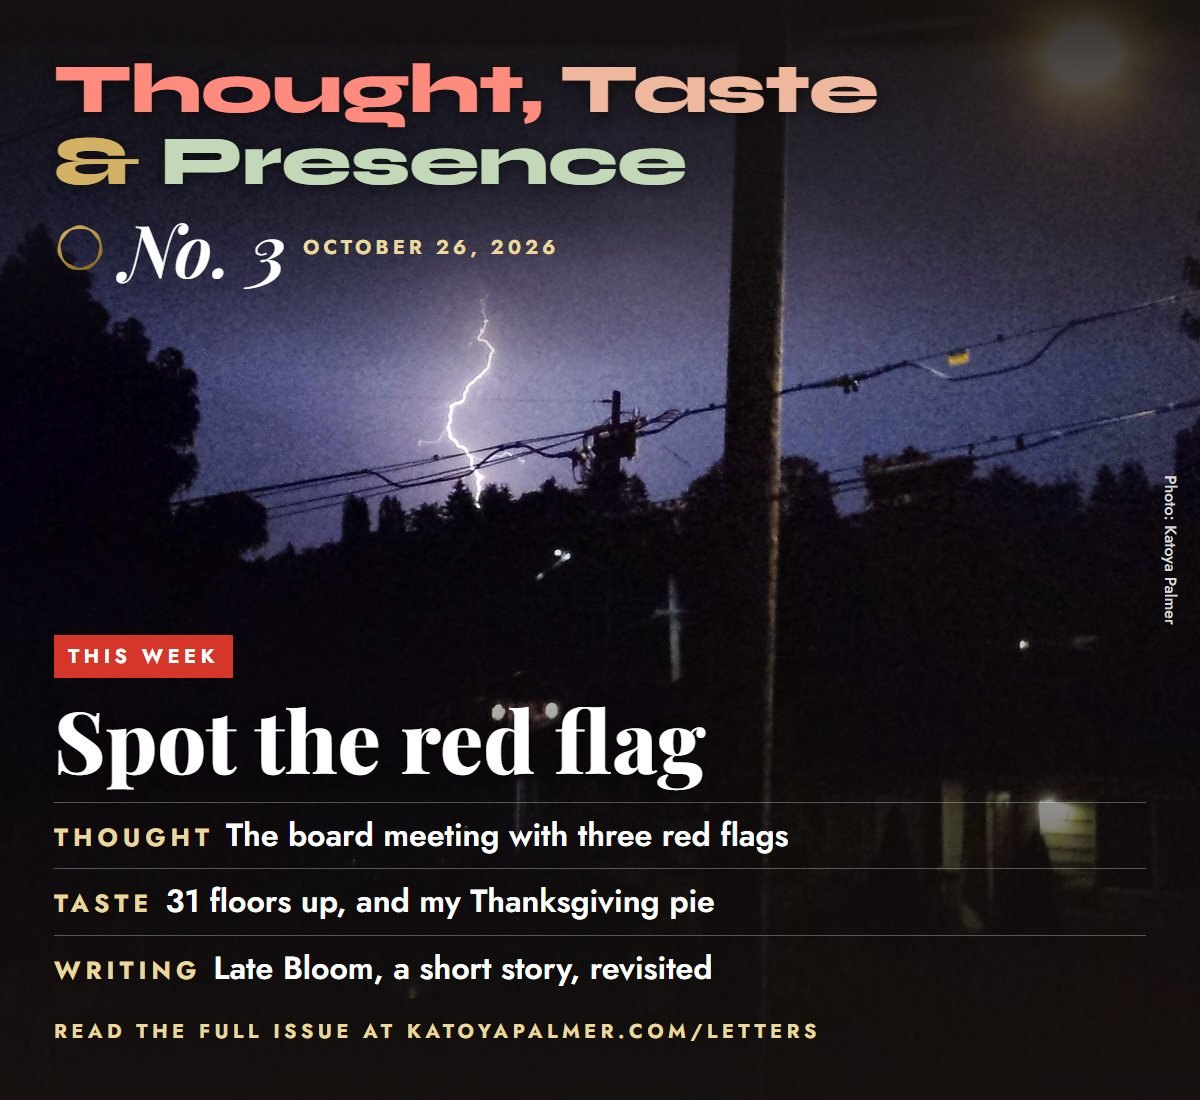
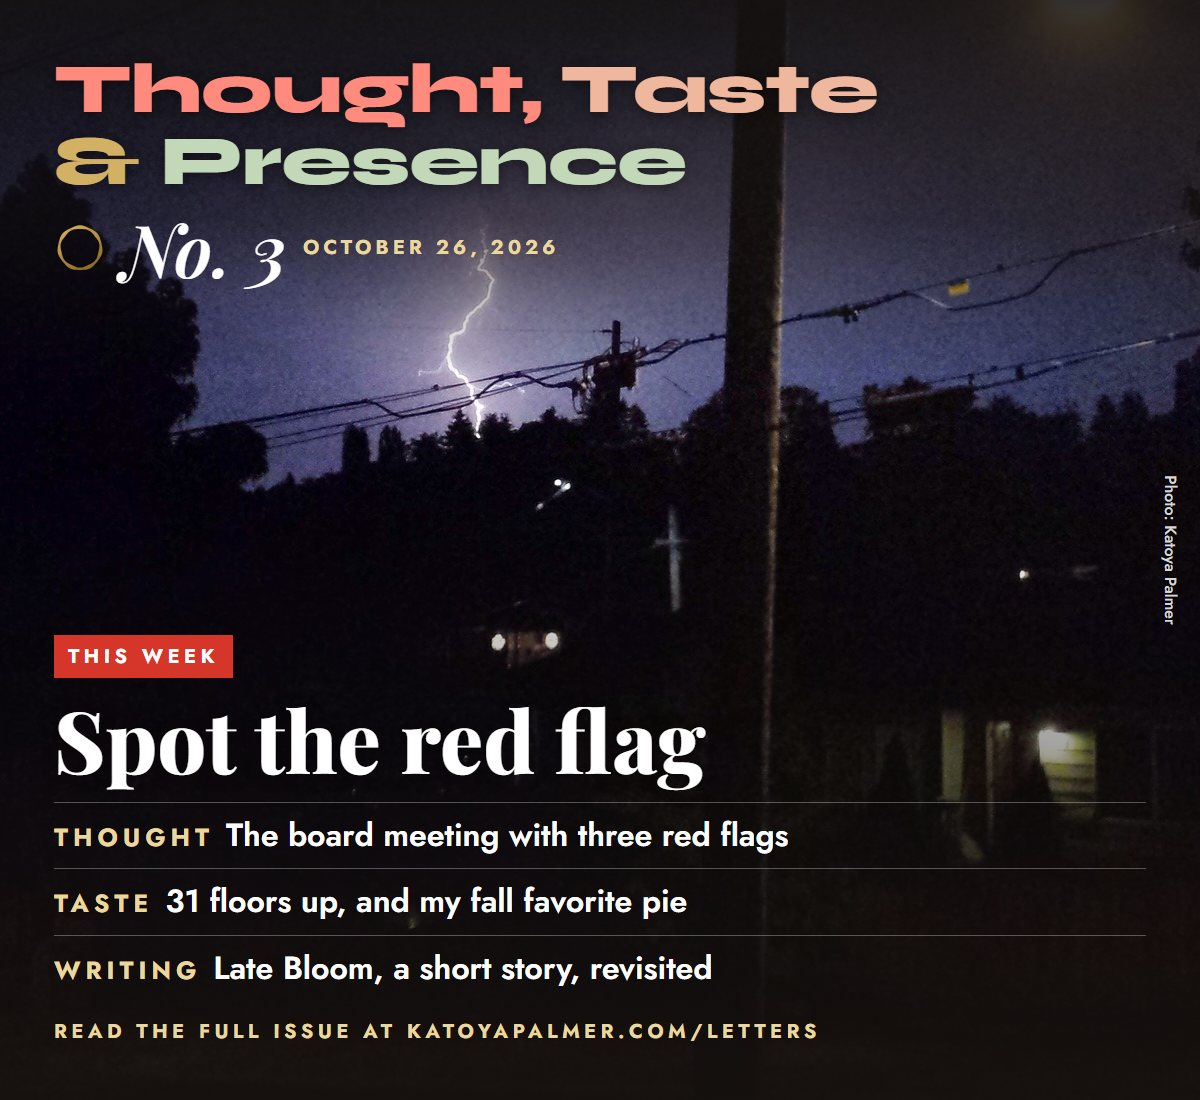
Issue 3: 'fall favorite' pie (Katoya), new email cover + share card

diff --git a/letters/2026-10-26-issue-03.html b/letters/2026-10-26-issue-03.html
@@ -7,27 +7,27 @@
 <meta name="referrer" content="strict-origin-when-cross-origin">
 <meta name="viewport" content="width=device-width, initial-scale=1.0" />
 <title>Issue 3: Spot the red flag | Thought, Taste &amp; Presence</title>
-<meta name="description" content="Issue 3 of Katoya Palmer's weekly letter: the board meeting with three red flags, Late Bloom revisited, my Thanksgiving pie, 31 floors up, and a horror movie season dump." />
+<meta name="description" content="Issue 3 of Katoya Palmer's weekly letter: the board meeting with three red flags, Late Bloom revisited, my fall favorite pie, 31 floors up, and a horror movie season dump." />
 <meta name="author" content="Katoya Raquell Palmer" />
 <link rel="canonical" href="https://www.katoyapalmer.com/letters/2026-10-26-issue-03.html" />
 <link rel="icon" type="image/svg+xml" href="/assets/favicon.svg" />
 <meta property="og:type" content="article" />
 <meta property="og:site_name" content="Katoya Palmer" />
 <meta property="og:title" content="Spot the red flag | Thought, Taste &amp; Presence, Issue 3" />
-<meta property="og:description" content="The board meeting with three red flags, Late Bloom revisited, my Thanksgiving pie, 31 floors up, and a horror movie season dump." />
+<meta property="og:description" content="The board meeting with three red flags, Late Bloom revisited, my fall favorite pie, 31 floors up, and a horror movie season dump." />
 <meta property="og:image" content="https://www.katoyapalmer.com/media/letters/issue-03/share_1200x630.jpg" />
 <meta property="og:image:width" content="1200" />
 <meta property="og:image:height" content="630" />
 <meta property="og:image:type" content="image/jpeg" />
-<meta property="og:image:alt" content="Thought, Taste and Presence, No. 3, October 26, 2026: lightning over power lines at night. Spot the red flag. Writing: Late Bloom, revisited. Taste: 31 floors up, and my Thanksgiving pie." />
+<meta property="og:image:alt" content="Thought, Taste and Presence, No. 3, October 26, 2026: lightning over power lines at night. Spot the red flag. Writing: Late Bloom, revisited. Taste: 31 floors up, and my fall favorite pie." />
 <meta property="article:published_time" content="2026-10-26T07:00:00-07:00" />
 <meta property="article:author" content="Katoya Palmer" />
 <meta property="og:url" content="https://www.katoyapalmer.com/letters/2026-10-26-issue-03.html" />
 <meta name="twitter:card" content="summary_large_image" />
 <meta name="twitter:title" content="Spot the red flag | Thought, Taste &amp; Presence, Issue 3" />
-<meta name="twitter:description" content="The board meeting with three red flags, Late Bloom revisited, my Thanksgiving pie, 31 floors up, and a horror movie season dump." />
+<meta name="twitter:description" content="The board meeting with three red flags, Late Bloom revisited, my fall favorite pie, 31 floors up, and a horror movie season dump." />
 <meta name="twitter:image" content="https://www.katoyapalmer.com/media/letters/issue-03/share_1200x630.jpg" />
-<meta name="twitter:image:alt" content="Thought, Taste and Presence, No. 3, October 26, 2026: lightning over power lines at night. Spot the red flag. Writing: Late Bloom, revisited. Taste: 31 floors up, and my Thanksgiving pie." />
+<meta name="twitter:image:alt" content="Thought, Taste and Presence, No. 3, October 26, 2026: lightning over power lines at night. Spot the red flag. Writing: Late Bloom, revisited. Taste: 31 floors up, and my fall favorite pie." />
 <link rel="preconnect" href="https://fonts.googleapis.com" />
 <link rel="preconnect" href="https://fonts.gstatic.com" crossorigin />
 <link href="https://fonts.googleapis.com/css2?family=Syne:wght@600;700;800&family=Space+Grotesk:wght@400;500;600;700&family=Jost:wght@400;500;600;700&family=Italianno&family=Playfair+Display:ital,wght@0,600;0,800;1,500;1,600&family=Newsreader:ital,opsz,wght@0,6..72,400;0,6..72,600;1,6..72,400&display=swap" rel="stylesheet" />
@@ -38,7 +38,7 @@
 <link rel="stylesheet" href="/assets/kp-music.css" />
 <script src="/assets/kp-music.js" defer></script>
 <script type="application/ld+json">
-{"@context":"https://schema.org","@type":"BlogPosting","headline":"Issue 3: Spot the red flag","description":"Issue 3 of Katoya Palmer's weekly letter: the board meeting with three red flags, Late Bloom revisited, my Thanksgiving pie, 31 floors up, and a horror movie season dump.","datePublished":"2026-10-26","dateModified":"2026-10-26","author":{"@type":"Person","@id":"https://www.katoyapalmer.com/#person","name":"Katoya Raquell Palmer","alternateName":"Katoya Palmer","url":"https://www.katoyapalmer.com/","sameAs":["https://katoyapalmer.substack.com","https://www.tiktok.com/@katoyapalmer","https://www.instagram.com/katoyapalmer/","https://www.facebook.com/katoyapalmer","https://www.linkedin.com/in/katoya318/","https://podcasts.apple.com/us/podcast/in-real-time-with-katoya-palmer/id1852388336"]},"publisher":{"@id":"https://www.katoyapalmer.com/#person"},"image":"https://www.katoyapalmer.com/media/letters/issue-03/share_1200x630.jpg","url":"https://www.katoyapalmer.com/letters/2026-10-26-issue-03.html","mainEntityOfPage":{"@type":"WebPage","@id":"https://www.katoyapalmer.com/letters/2026-10-26-issue-03.html"},"isPartOf":{"@type":"CreativeWorkSeries","name":"Thought, Taste & Presence","url":"https://www.katoyapalmer.com/letters/"},"inLanguage":"en-US"}
+{"@context":"https://schema.org","@type":"BlogPosting","headline":"Issue 3: Spot the red flag","description":"Issue 3 of Katoya Palmer's weekly letter: the board meeting with three red flags, Late Bloom revisited, my fall favorite pie, 31 floors up, and a horror movie season dump.","datePublished":"2026-10-26","dateModified":"2026-10-26","author":{"@type":"Person","@id":"https://www.katoyapalmer.com/#person","name":"Katoya Raquell Palmer","alternateName":"Katoya Palmer","url":"https://www.katoyapalmer.com/","sameAs":["https://katoyapalmer.substack.com","https://www.tiktok.com/@katoyapalmer","https://www.instagram.com/katoyapalmer/","https://www.facebook.com/katoyapalmer","https://www.linkedin.com/in/katoya318/","https://podcasts.apple.com/us/podcast/in-real-time-with-katoya-palmer/id1852388336"]},"publisher":{"@id":"https://www.katoyapalmer.com/#person"},"image":"https://www.katoyapalmer.com/media/letters/issue-03/share_1200x630.jpg","url":"https://www.katoyapalmer.com/letters/2026-10-26-issue-03.html","mainEntityOfPage":{"@type":"WebPage","@id":"https://www.katoyapalmer.com/letters/2026-10-26-issue-03.html"},"isPartOf":{"@type":"CreativeWorkSeries","name":"Thought, Taste & Presence","url":"https://www.katoyapalmer.com/letters/"},"inLanguage":"en-US"}
 </script>
 <script type="application/ld+json">
 {"@context":"https://schema.org","@type":"BreadcrumbList","itemListElement":[{"@type":"ListItem","position":1,"name":"Home","item":"https://www.katoyapalmer.com/"},{"@type":"ListItem","position":2,"name":"Letters","item":"https://www.katoyapalmer.com/letters/"},{"@type":"ListItem","position":3,"name":"Issue 3: Spot the red flag","item":"https://www.katoyapalmer.com/letters/2026-10-26-issue-03.html"}]}
@@ -97,7 +97,7 @@
     <p class="tp-meta"><span>By Katoya Palmer</span><span>Monday, October 26, 2026</span><span>7 min read, 30 sec skim</span></p>
   </div>
 </header>
-<p class="tp-dek">The board meeting with three red flags, Late Bloom revisited, my Thanksgiving pie, 31 floors up, and a horror movie season dump.</p>
+<p class="tp-dek">The board meeting with three red flags, Late Bloom revisited, my fall favorite pie, 31 floors up, and a horror movie season dump.</p>
 
 <div class="tp-layout">
   <aside class="tp-rail" id="contents" aria-label="In this issue"><div class="tp-rail-in tp-contents">
@@ -106,7 +106,7 @@
       <ol>
         <li><a href="#thought"><span><small class="tp-c-t">Thought</small>Spot the red flag: the board meeting where everything looked fine.</span></a></li>
         <li><a href="#writing"><span><small class="tp-c-t">Writing</small>I'm revisiting Late Bloom, my short story about Noa.</span></a></li>
-        <li><a href="#taste"><span><small class="tp-c-a">Taste</small>My Thanksgiving apple pie, and 31 floors up at Ascend.</span></a></li>
+        <li><a href="#taste"><span><small class="tp-c-a">Taste</small>My fall favorite, apple pie, and 31 floors up at Ascend.</span></a></li>
         <li><a href="#answers"><span><small class="tp-c-a">Last week's answers</small>Who spotted the red flag, and who guessed the spot.</span></a></li>
         <li><a href="#presence"><span><small class="tp-c-p">Presence</small>One full breath.</span></a></li>
         <li><a href="#coming-up"><span><small class="tp-c-p">Coming up</small>An auction close, Out the Box, and Coming Home.</span></a></li>
@@ -163,7 +163,7 @@
     <section class="tp-sec" id="taste">
       <div class="tp-open tp-o-a"><h2 class="k">Taste</h2><span class="n" aria-hidden="true">03</span></div>
       <h3 class="tp-big">Pie at home, eggs in the sky</h3>
-      <div class="tp-brand" style="margin-top:0;padding-top:0;border:0"><img src="/assets/email/logo-sznd.png" width="112" height="120" alt="SZND by Katoya"><div><small>SZND by Katoya</small><h3>My Thanksgiving apple pie</h3></div></div>
+      <div class="tp-brand" style="margin-top:0;padding-top:0;border:0"><img src="/assets/email/logo-sznd.png" width="112" height="120" alt="SZND by Katoya"><div><small>SZND by Katoya</small><h3>My fall favorite: apple pie</h3></div></div>
       <p class="tp-take">I cook my apples first, soft and smothered, like a turnover.</p>
       <p>Blame the fast-food pies I grew up on: the Hostess pie I microwaved after school (burned my tongue every time), the old fried McDonald's pie, and, when I was pregnant with my son, a McDonald's apple pie crushed into a vanilla shake. Lattice on top, cooled filling so the crust stays crisp.</p>
       <figure class="tp-pic half"><img src="/assets/email/issue03-pie-apples.jpg" width="600" height="600" loading="lazy" decoding="async" alt="Sliced apples with cinnamon and sugar in a pot, for the apple pie filling"><figcaption>The filling, Thanksgiving 2025.</figcaption></figure>

diff --git a/letters/index.html b/letters/index.html
@@ -83,7 +83,7 @@
         <ul>
           <li><b>Thought</b>The board meeting with three red flags</li>
           <li><b>Writing</b>Late Bloom, a short story, revisited</li>
-          <li><b>Taste</b>31 floors up, and my Thanksgiving pie</li>
+          <li><b>Taste</b>31 floors up, and my fall favorite pie</li>
         </ul>
       </div>
     </a></li>
